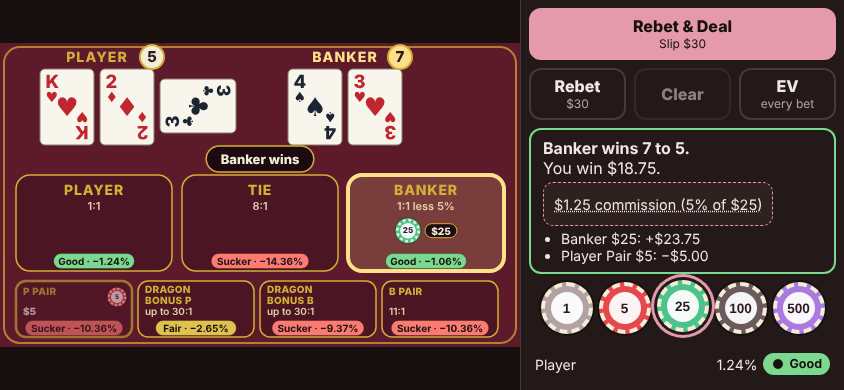
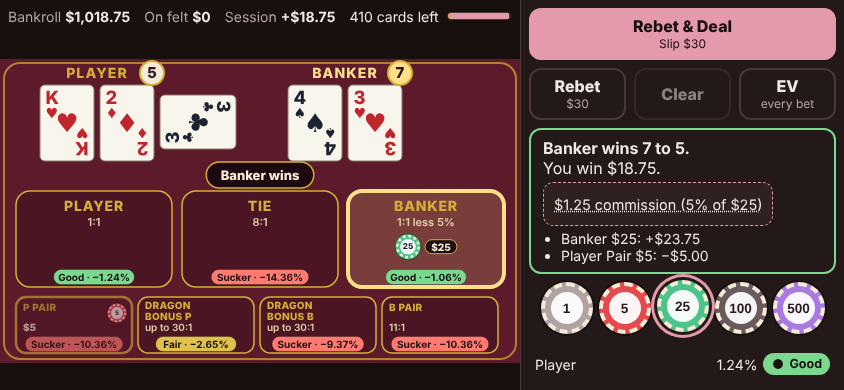
feat: screenshots of the real app; landscape tools under the table; auto-play summary note; review nits
Claude-Session: https://claude.ai/code/session_01XQf3cVyg9E1HpM2dkhY1Bo

Changed region(s): [[0.0, 0.0923, 0.6161, 0.9538], [0.0, 0.0308, 0.6161, 0.0615], [0.0, 0.4923, 0.0308, 0.5231]]

diff --git a/tests/e2e/screenshots.spec.ts b/tests/e2e/screenshots.spec.ts
@@ -1,0 +1,133 @@
+// Screenshots of the real app for docs/screenshots (portrait 390×844 and landscape 844×390, light
+// and dark). Opt-in: SCREENSHOTS=1 npm run test:e2e -- screenshots
+import { expect, test } from '@playwright/test';
+import type { Page } from '@playwright/test';
+import { openScene, settled, sim } from './helpers';
+
+test.skip(!process.env.SCREENSHOTS, 'set SCREENSHOTS=1 to refresh docs/screenshots');
+
+const landscape = (page: Page) =>
+  (page.viewportSize()?.width ?? 0) > (page.viewportSize()?.height ?? 0);
+const THEMES = ['light', 'dark'] as const;
+
+async function prepare(page: Page, theme: (typeof THEMES)[number]) {
+  await page.emulateMedia({ colorScheme: theme, reducedMotion: 'reduce' });
+  await page.goto('/');
+  await page.evaluate(() =>
+    window.__baccaratton?.store?.updateSettings({ animationSpeed: 'instant' }),
+  );
+}
+async function shot(page: Page, name: string, theme: string) {
+  const orient =
+    (page.viewportSize()?.width ?? 0) > (page.viewportSize()?.height ?? 0)
+      ? 'landscape'
+      : 'portrait';
+  await page.waitForTimeout(250);
+  await page.screenshot({ path: `docs/screenshots/${name}-${orient}-${theme}.png` });
+}
+const top = (page: Page, sel: string) =>
+  page.evaluate((s) => {
+    const el = document.querySelector(s);
+    el?.scrollIntoView({ block: 'start' });
+    // Landscape: the rail scrolls inside the table; keep the whole table on screen.
+    const table = el?.closest('.sim-table-landscape');
+    if (table) window.scrollTo(0, table.getBoundingClientRect().top + window.scrollY - 4);
+  }, sel);
+
+for (const theme of THEMES) {
+  test.describe(theme, () => {
+    test.beforeEach(({ page: _page }, info) => {
+      test.skip(info.project.name === 'desktop', 'phone sizes only');
+    });
+
+    test('table with the EV sheet open', async ({ page }) => {
+      await prepare(page, theme);
+      // Banker wins 7 to 5; then a new slip ($25 Banker + $5 Tie) with the sheet open.
+      await page.goto('/#/play?seed=8&shoe=Kh,4s,2d,3h,3c&speed=instant');
+      const t = sim(page);
+      await t.locator('[data-chip="2500"]').click();
+      await t.locator('[data-hit="banker"]').click();
+      await t.locator('[data-action="deal"]').click();
+      await settled(t);
+      await t.locator('[data-hit="banker"]').click();
+      await t.locator('[data-chip="500"]').click();
+      await t.locator('[data-hit="tie"]').click();
+      await t.getByRole('button', { name: /Bet it anyway/ }).click();
+      await t.locator('[data-action="ev"]').click();
+      await expect(page.getByTestId('ev-sheet')).toBeVisible();
+      await shot(page, 'table-ev', theme);
+      await page.locator('[data-action="close-ev"]').click();
+      await page.evaluate(() => window.scrollTo(0, 0));
+      await shot(page, 'table-result', theme);
+    });
+
+    test('a predict step in a lesson', async ({ page }) => {
+      await prepare(page, theme);
+      const t = await openScene(page, 'banker-third-card-table', 'l05-s1');
+      await t.locator('[data-action="deal"]').click();
+      await expect(t.getByTestId('predict-bar')).toBeVisible();
+      await top(
+        page,
+        landscape(page)
+          ? '[data-scene="l05-s1"] [data-testid="simulator"]'
+          : '[data-scene="l05-s1"] [data-testid="step-panel"]',
+      );
+      await shot(page, 'predict', theme);
+      await t.getByTestId('predict-bar').locator('[data-answer="Draw"]').click();
+      await settled(t);
+      await top(
+        page,
+        landscape(page)
+          ? '[data-scene="l05-s1"] [data-testid="simulator"]'
+          : '[data-scene="l05-s1"] [data-testid="step-panel"]',
+      );
+      await shot(page, 'predict-feedback', theme);
+    });
+
+    test('roads and the Shoe tracker after 40 hands', async ({ page }) => {
+      await prepare(page, theme);
+      await page.goto('/#/play?seed=21&speed=instant');
+      const t = sim(page);
+      await t.locator('[data-action="shoe-tracker"]').click();
+      for (let i = 0; i < 40; i++) {
+        await t.locator('[data-action="deal"]').click();
+        await settled(t);
+      }
+      await top(page, '[data-testid="scoreboard"]');
+      await shot(page, 'roads', theme);
+      await top(page, '[data-testid="shoe-tracker"]');
+      await shot(page, 'tracker', theme);
+    });
+
+    test('auto-play compare chart (lesson 19)', async ({ page }) => {
+      test.setTimeout(120_000);
+      await prepare(page, theme);
+      await openScene(page, 'betting-systems', 'l19-s1');
+      await page.locator('[data-scene="l19-s1"] [data-testid="auto-run"]').click();
+      await expect(
+        page.locator('[data-scene="l19-s1"] [data-testid="auto-play-result"]'),
+      ).toBeVisible({
+        timeout: 90_000,
+      });
+      await top(page, '[data-scene="l19-s1"] [data-testid="bankroll-chart"]');
+      await shot(page, 'autoplay', theme);
+    });
+
+    test('Drill and a lesson page', async ({ page }) => {
+      await prepare(page, theme);
+      await page.goto('/#/drill?mode=banker');
+      await page
+        .getByTestId('drill-spot')
+        .getByRole('group', { name: 'Your answer' })
+        .getByRole('button')
+        .first()
+        .click();
+      await expect(page.getByTestId('drill-result')).toBeVisible();
+      await page.evaluate(() => window.scrollTo(0, 0));
+      await shot(page, 'drill', theme);
+      await page.goto('/#/learn/expected-value');
+      await expect(page.locator('h1').first()).toBeVisible();
+      await shot(page, 'lesson', theme);
+    });
+  });
+}

diff --git a/src/sim/ui/AutoPlayPanel.tsx b/src/sim/ui/AutoPlayPanel.tsx
@@ -432,6 +432,7 @@ function Results({
   const many = res.series.some((s) => s.p10 !== undefined);
   const main = res.series[0]!;
   const sessions = main.finals.length;
+  const noteId = useId();
   return (
     <div data-testid="auto-play-result" style={{ display: 'grid', gap: '10px' }}>
       <BankrollChart
@@ -441,41 +442,46 @@ function Results({
         handsPerHour={settings.handsPerHour}
       />
       {many ? <SurvivalChart series={res.series} hands={hands} /> : null}
-      <div style={{ overflowX: 'auto' }}>
-        <table
-          data-testid="auto-summary"
-          style={{
-            borderCollapse: 'collapse',
-            fontSize: '13px',
-            fontVariantNumeric: 'tabular-nums',
-            minWidth: '100%',
-          }}
+      <div data-testid="auto-summary" style={{ display: 'grid', gap: '4px', minWidth: 0 }}>
+        <p
+          id={noteId}
+          style={{ margin: 0, textAlign: 'left', fontSize: '12px', color: 'var(--muted)' }}
         >
-          <caption style={{ textAlign: 'left', fontSize: '12px', color: 'var(--muted)' }}>
-            {sessions > 1 ? `${sessions} sessions` : '1 session'} of {hands.toLocaleString('en-US')}{' '}
-            hands, same cards for every system. Cost/h (edge × money bet per hour) and "Expected"
-            are exact given the bets placed; the rest is ≈ simulated.
-          </caption>
-          <thead>
-            <tr>
-              <th scope="col" style={{ textAlign: 'left' }}>
-                System
-              </th>
-              <th scope="col">Mean bet</th>
-              <th scope="col">Cost/h</th>
-              <th scope="col">Expected</th>
-              <th scope="col">Actual (≈)</th>
-              {many ? <th scope="col">Busted (≈)</th> : null}
-              {many ? <th scope="col">Ahead (≈)</th> : null}
-              <th scope="col">Cap resets</th>
-            </tr>
-          </thead>
-          <tbody>
-            {res.series.map((s, k) => (
-              <Row key={k} s={s} k={k} bankroll={bankroll} many={many} />
-            ))}
-          </tbody>
-        </table>
+          {sessions > 1 ? `${sessions} sessions` : '1 session'} of {hands.toLocaleString('en-US')}{' '}
+          hands, same cards for every system. Cost/h (edge × money bet per hour) and "Expected" are
+          exact given the bets placed; the rest is ≈ simulated.
+        </p>
+        <div style={{ overflowX: 'auto' }}>
+          <table
+            aria-describedby={noteId}
+            style={{
+              borderCollapse: 'collapse',
+              fontSize: '13px',
+              fontVariantNumeric: 'tabular-nums',
+              minWidth: '100%',
+            }}
+          >
+            <thead>
+              <tr>
+                <th scope="col" style={{ textAlign: 'left' }}>
+                  System
+                </th>
+                <th scope="col">Mean bet</th>
+                <th scope="col">Cost/h</th>
+                <th scope="col">Expected</th>
+                <th scope="col">Actual (≈)</th>
+                {many ? <th scope="col">Busted (≈)</th> : null}
+                {many ? <th scope="col">Ahead (≈)</th> : null}
+                <th scope="col">Cap resets</th>
+              </tr>
+            </thead>
+            <tbody>
+              {res.series.map((s, k) => (
+                <Row key={k} s={s} k={k} bankroll={bankroll} many={many} />
+              ))}
+            </tbody>
+          </table>
+        </div>
       </div>
       <p style={{ margin: 0, fontSize: '13px' }} data-testid="auto-sentence">
         {sentence(main, settings.handsPerHour)}

diff --git a/src/sim/ui/Simulator.tsx b/src/sim/ui/Simulator.tsx
@@ -469,7 +469,11 @@ export function Simulator(props: SimulatorProps) {
       ) : null}
       {resultShown && last && last.settlements.length === 0 && handN !== null ? (
         <p class="sim-toast sim-nobet" role="status">
-          {winnerText}, {last.hand.player.total} to {last.hand.banker.total}. No money on this hand.
+          {winnerText},{' '}
+          {last.hand.winner === 'player'
+            ? `${last.hand.player.total} to ${last.hand.banker.total}`
+            : `${last.hand.banker.total} to ${last.hand.player.total}`}
+          . No money on this hand.
         </p>
       ) : null}
       {rejection ? (
@@ -736,6 +740,7 @@ export function Simulator(props: SimulatorProps) {
         notices={
           landscape ? (
             <>
+              {step}
               {betNotices}
               {resultNotices}
             </>
@@ -748,9 +753,6 @@ export function Simulator(props: SimulatorProps) {
         rail={
           landscape ? (
             <>
-              {step}
-              {tools}
-              {trackerPanel}
               {!sheetOpen && showEV && !practiceHidden ? (
                 <EvList
                   sheet={preview.sheet}
@@ -763,8 +765,8 @@ export function Simulator(props: SimulatorProps) {
         }
         sheet={sheet}
       />
-      {!landscape ? tools : null}
-      {!landscape ? trackerPanel : null}
+      {tools}
+      {trackerPanel}
       {session}
       {auto}
     </div>

diff --git a/tests/e2e/sandbox.spec.ts b/tests/e2e/sandbox.spec.ts
@@ -1,7 +1,7 @@
 // The Play sandbox (simulator.md section 7.5 items 1-5, 9): EV before Deal, the Sucker second tap
 // and "Use this", EZ, roads and the shoe, the tracker, persistence, keyboard betting, Deal in view.
 import { expect, test } from '@playwright/test';
-import { bankroll, inViewport, settled, sim } from './helpers';
+import { bankroll, inViewport, noHorizontalScroll, settled, sim } from './helpers';
 
 // Player K 2 3 = 5, Banker 4 3 = 7 stands: Banker wins 7 to 5.
 const BANKER_WINS = 'Kh,4s,2d,3h,3c';
@@ -152,4 +152,14 @@ test('auto-play: Martingale vs flat Banker on the same cards, with exact and sim
   await expect(ap).toContainText(/simulated/i);
   await expect(ap).toContainText(/exact/i);
   await expect(res.locator('svg').first()).toBeVisible();
+});
+
+test('a long shoe never widens the page (the roads scroll inside their strip)', async ({
+  page,
+}) => {
+  await page.goto('/#/play?seed=21&speed=instant');
+  const t = sim(page);
+  for (let i = 0; i < 45; i++) await t.locator('[data-action="deal"]').click();
+  await expect(t).toHaveAttribute('data-hands', '45');
+  expect(await noHorizontalScroll(page)).toBeLessThanOrEqual(0);
 });

diff --git a/src/sim/scene/runner.ts b/src/sim/scene/runner.ts
@@ -346,7 +346,7 @@ export function answerKey(step: SceneStep, hand: HandRecord): AnswerKey {
           ? `(Player ${p2}, Banker ${b2}.)`
           : p3 === null
             ? `(Banker ${b2}, the Player stood.)`
-            : `(Banker ${b2}, the Player's third card was a ${p3}.)`;
+            : `(Banker ${b2}, the Player's third card was ${p3 === 8 ? 'an' : 'a'} ${p3}.)`;
       return {
         answer: r.draws ? 'Draw' : 'Stand',
         ruleRow: `${RULE_ROW[r.rule]} ${why}`,

diff --git a/src/sim/ui/BankrollChart.tsx b/src/sim/ui/BankrollChart.tsx
@@ -254,7 +254,7 @@ export function BankrollChart({
         aria-live="polite"
         data-testid="chart-readout"
         style={{
-          minHeight: `${1.45 * Math.min(series.length + 1, 3)}em`,
+          minHeight: '1.45em',
           fontSize: '12px',
           color: 'var(--text)',
           fontVariantNumeric: 'tabular-nums',

diff --git a/src/sim/ui/SurvivalChart.tsx b/src/sim/ui/SurvivalChart.tsx
@@ -108,7 +108,7 @@ export function SurvivalChart({ series, hands, class: cls }: SurvivalChartProps)
         role="status"
         aria-live="polite"
         style={{
-          minHeight: `${1.45 * Math.min(series.length + 1, 3)}em`,
+          minHeight: '1.45em',
           fontSize: '12px',
           color: 'var(--text)',
         }}

diff --git a/src/sim/ui/simulator.css b/src/sim/ui/simulator.css
@@ -2,7 +2,11 @@
    src/app/styles/tokens.css; light and dark come from there. */
 .sim {
   display: grid;
+  grid-template-columns: minmax(0, 1fr);
   gap: 12px;
+  min-width: 0;
+}
+.sim > * {
   min-width: 0;
 }
 .sim-step {
